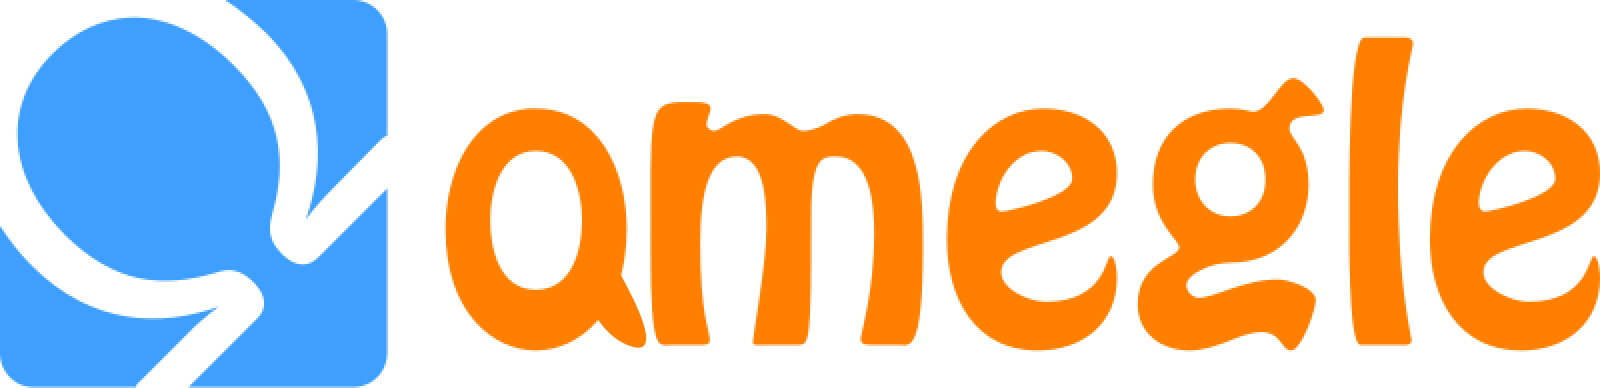
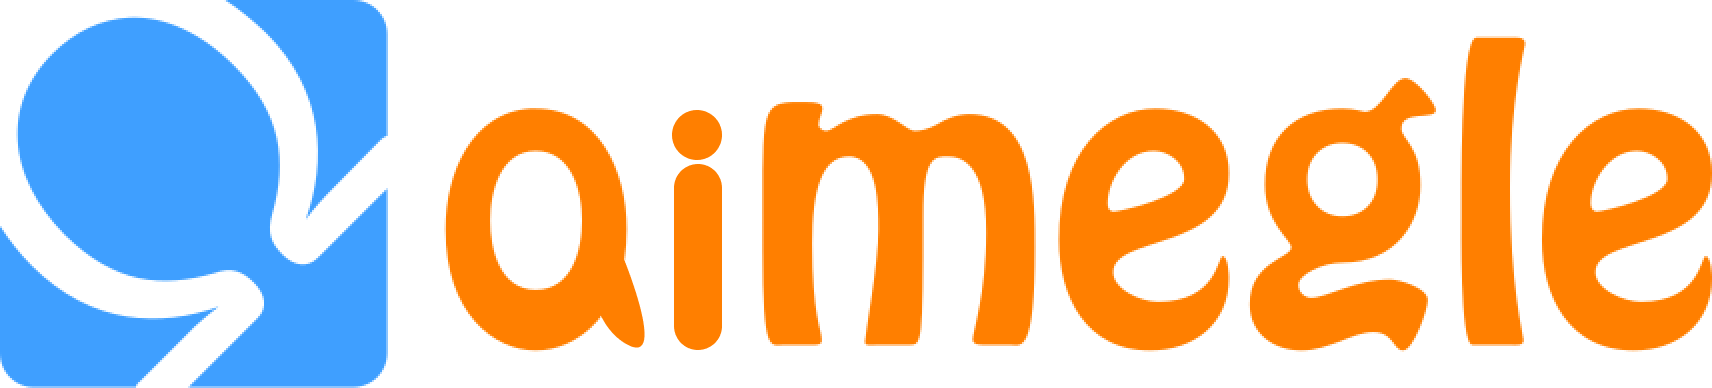
v0

diff --git a/src/Big.js b/src/Big.js
@@ -57,7 +57,7 @@ function MessageInput({ onSendMessage }) {
         </button>
         <input
           type="text"
-          placeholder="Type a message..."
+          placeholder="Type a message or ca/x/tg"
           value={input}
           onChange={(e) => setInput(e.target.value)}
           onKeyDown={handleKeyDown}
@@ -70,7 +70,7 @@ function MessageInput({ onSendMessage }) {
 // Header Component
 function Header() {
   return (
-    <div className="w-full h-[7.5dvh] p-4 text-center text-2xl font-bold border-b border-[#FCF5ED] flex items-center justify-between">
+    <div className="w-full h-[7.5dvh] p-2 text-center text-2xl font-bold border-b border-[#FCF5ED] flex items-center justify-between">
         <div className='flex items-center h-full'>
             <img src="amegle.png" className='h-[100%]' />
             <div className='ml-[50%] -rotate-3 whitespace-nowrap'>Talk to animals!</div>         
@@ -139,9 +139,9 @@ function Big() {
     if (message.toLowerCase().includes("ca")) {
       response = "updating...";
     } else if (message.toLowerCase().includes("twitter") || message.toLowerCase().includes("x")) {
-      response = <a href="https://x.com/amegleonline" target="_blank" rel="noopener noreferrer" className='underline text-blue-700'>Follow us on Twitter/X</a>;
+      response = <a href="https://x.com/" target="_blank" rel="noopener noreferrer" className='underline text-blue-700'>Follow us on Twitter/X</a>;
     } else if (message.toLowerCase().includes("telegram") || message.toLowerCase().includes("tg")) {
-      response = <a href="https://t.me/amegleportal" target="_blank" rel="noopener noreferrer" className='underline text-blue-700'>Join us on Telegram</a>;
+      response = <a href="https://t.me/" target="_blank" rel="noopener noreferrer" className='underline text-blue-700'>Join us on Telegram</a>;
     } else {
       // Select a random response from the current video
       response = videos[currentVideoIndex].responses[Math.floor(Math.random() * videos[currentVideoIndex].responses.length)];
@@ -150,7 +150,7 @@ function Big() {
     setTimeout(() => {
       setMessages((prevMessages) => [
         ...prevMessages,
-        { text: response, sender: 'Stranger' },
+        { text: response, sender: 'Animal' },
       ]);
     }, 1000);
   };

diff --git a/public/index.html b/public/index.html
@@ -24,7 +24,7 @@
       work correctly both with client-side routing and a non-root public URL.
       Learn how to configure a non-root public URL by running `npm run build`.
     -->
-    <title>Amegle | Talk to animals!</title>
+    <title>aimegle | animal intelligence</title>
   </head>
   <body>
     <noscript>You need to enable JavaScript to run this app.</noscript>
